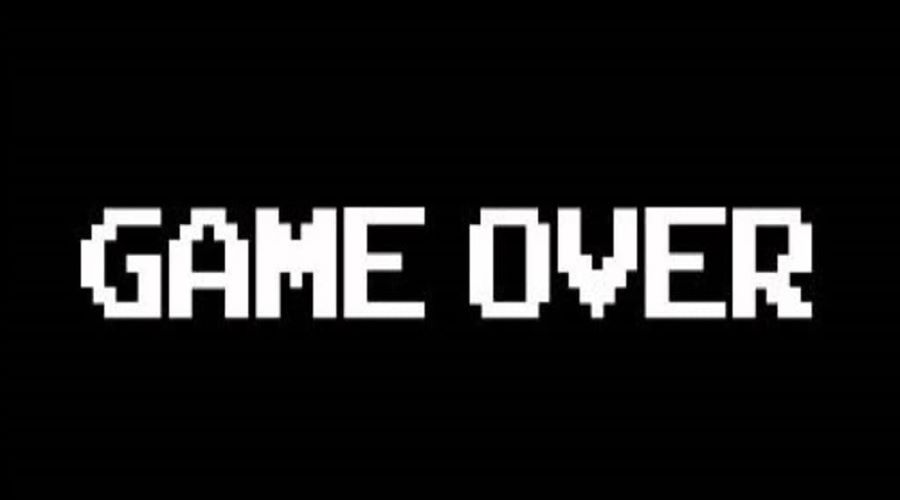
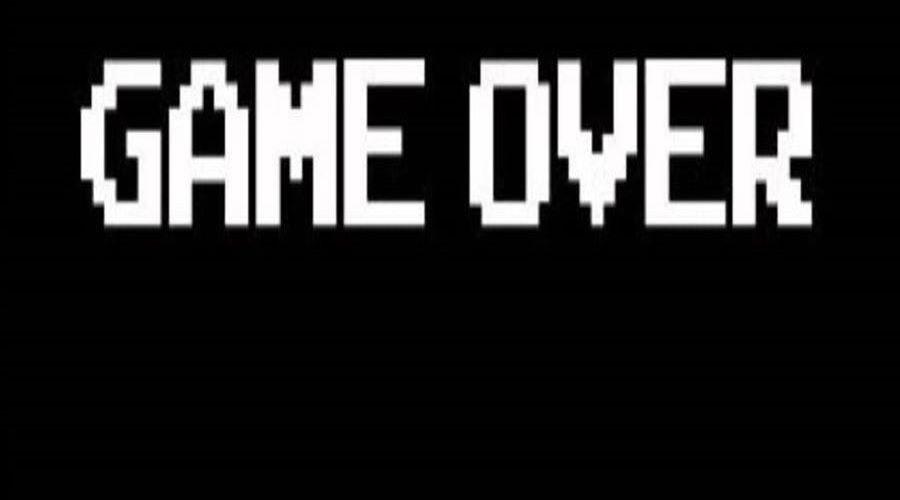
play and pause

Changed region(s): [[0.0622, 0.09, 0.9022, 0.66]]

diff --git a/bomberman-starter-starter-2/src/uet/oop/bomberman/entities/Menu.java b/bomberman-starter-starter-2/src/uet/oop/bomberman/entities/Menu.java
@@ -47,6 +47,8 @@ public class Menu {
     private Image endGameImage = new Image("C:/Users/ngohu/IdeaProjects/BombermanGame/bomberman-starter-starter-2/res/background/over.jpg");
     private ImageView endGameMenu = new ImageView(endGameImage);
     private Button muteVolumeButton = new Button("Mute?");
+    private Image playAgain = new Image("C:\\Users\\ngohu\\IdeaProjects\\BombermanGame\\bomberman-starter-starter-2\\res\\MenuImage\\again.png");
+    ImageView playAgainButton = new ImageView(playAgain);
     public Menu()  {
         instructionButton.setX(300);
         instructionButton.setY(200);
@@ -59,6 +61,8 @@ public class Menu {
         muteVolumeButton.setLayoutY(0);
         muteVolumeButton.setLayoutX(840);
         muteVolumeButton.setMinSize(66,66);
+        playAgainButton.setX(300);
+        playAgainButton.setY(300);
     }
 
     public Button getMuteVolumeButton() {
@@ -87,6 +91,10 @@ public class Menu {
 
     public ImageView getQuitButton() {
         return quitButton;
+    }
+
+    public ImageView getPlayAgainButton() {
+        return playAgainButton;
     }
 }
 

diff --git a/bomberman-starter-starter-2/src/uet/oop/bomberman/BombermanGame.java b/bomberman-starter-starter-2/src/uet/oop/bomberman/BombermanGame.java
@@ -275,13 +275,13 @@ public class BombermanGame extends Application {
     public void endGame(Stage stage) {
         Group root = new Group();
         root.getChildren().add(Menu.getEndGameMenu());
-        root.getChildren().add(Menu.getPlayButton());
+        root.getChildren().add(Menu.getPlayAgainButton());
         root.getChildren().add(Menu.getQuitButton());
         Scene scene = new Scene(root);
         // Them scene vao stage
         stage.setScene(scene);
         stage.show();
-        Menu.getPlayButton().setOnMouseClicked(mouseEvent -> {
+        Menu.getPlayAgainButton().setOnMouseClicked(mouseEvent -> {
             clear();
             bomberman.setHeart(2);
             loseGame = false;
